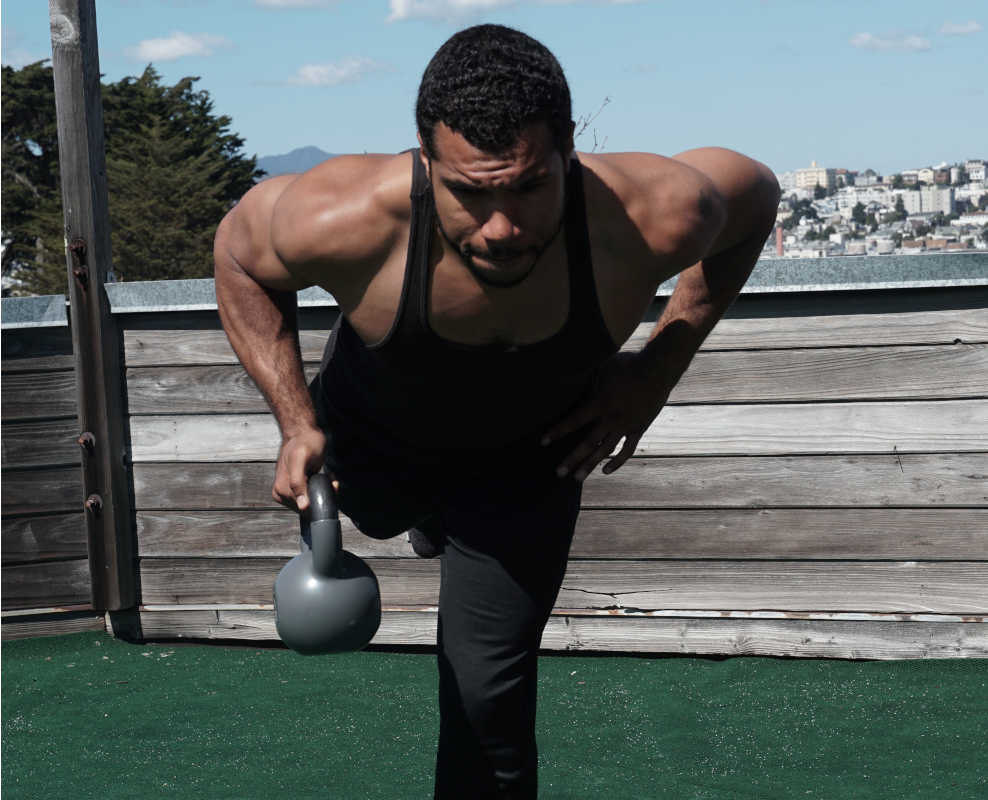
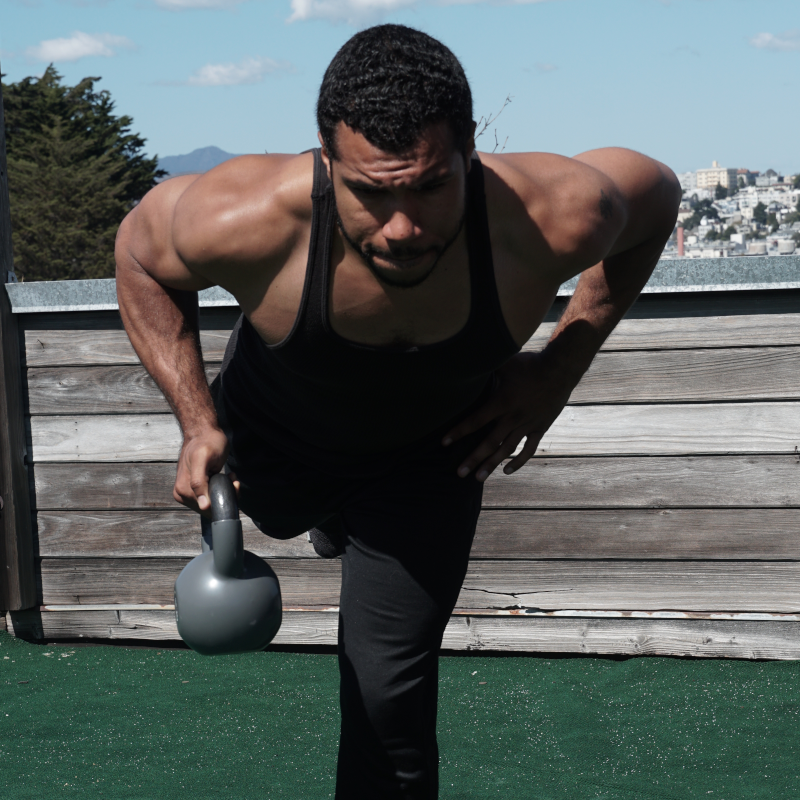
cropped a pic

diff --git a/index.html b/index.html
@@ -49,7 +49,7 @@
 								<h2 class="major">Contact</h2>
 								<span class="image main"><img src="images/pic01.jpg" alt="" /></span>
 								<h3 id="email">gabetstuckey@gmail.com</h3>
-								<h2 id = "phone">415-314-8692</h2>
+								<h1 id = "phone">415-314-8692</h1>
 							</article>
 							
 
